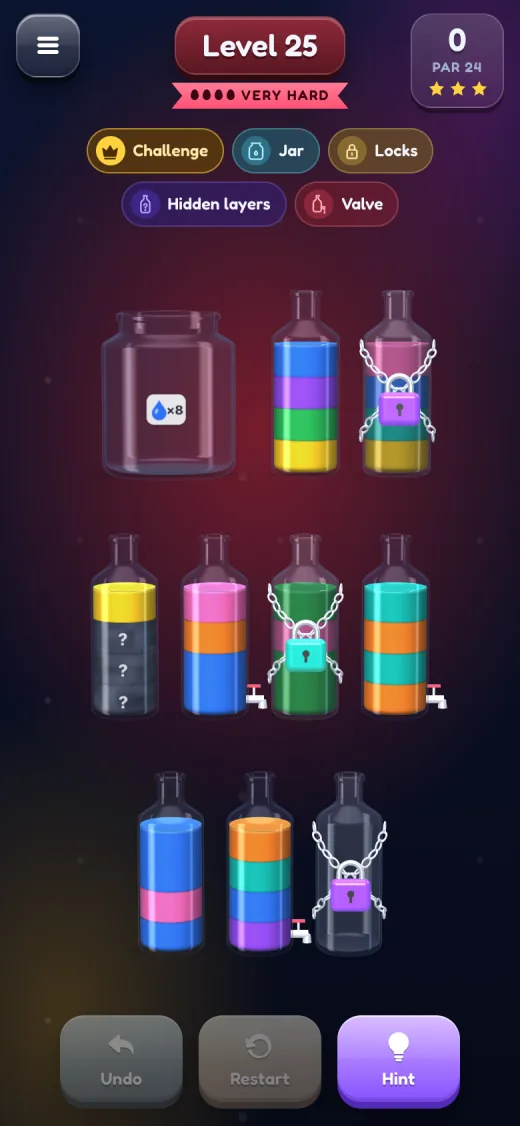
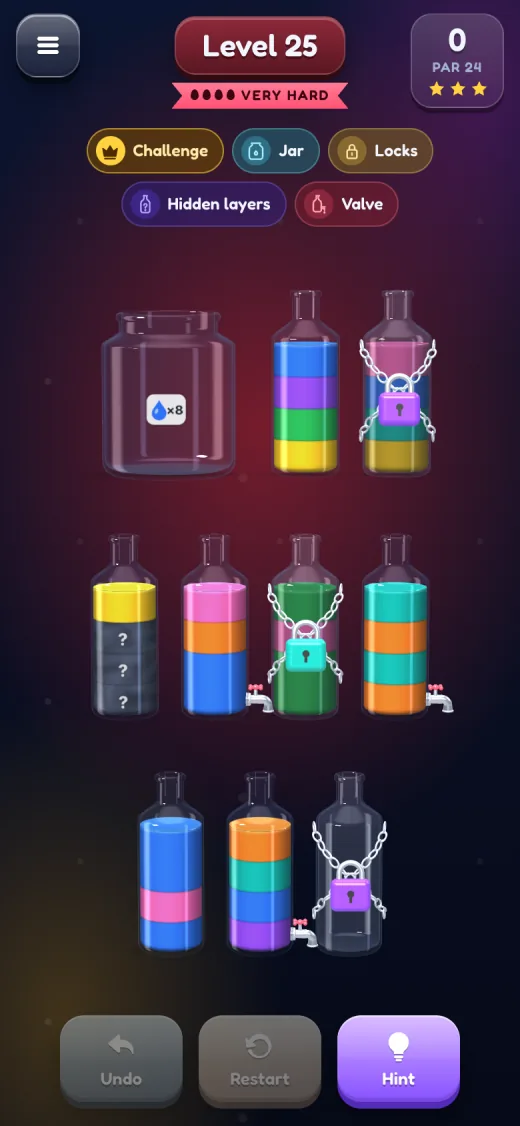
livelier glass, a new faucet and a die for free play
- reflections drift slowly as if the sun were moving, each bottle a little
  differently, with a small bright sun glint; now and then a soft band of
  light sweeps up one bottle (high graphics only: the loop idles at ~30 fps,
  low graphics still renders only when something moves)
- the valve tap is a chrome faucet with a flange, a curved spout and a red
  four-arm knob that turns while it pours
- free play gets a die icon instead of the mix glyph
- README screenshots refreshed

diff --git a/lab/src/render/vessel.ts b/lab/src/render/vessel.ts
@@ -16,6 +16,7 @@ export interface ViewLayer {
 }
 
 export const LIFT = 0.42;
+const TAP_SCALE = 1.25;
 
 const _n = new THREE.Vector3();
 const _axis = new THREE.Vector3();
@@ -24,7 +25,8 @@ const _acc = new THREE.Vector3();
 
 let corkGeo: THREE.BufferGeometry | null = null;
 let corkMat: THREE.Material | null = null;
-let tapMat: THREE.Material | null = null;
+let chromeMat: THREE.Material | null = null;
+let knobMat: THREE.Material | null = null;
 let steelMat: THREE.MeshStandardMaterial | null = null;
 let linkGeo: THREE.BufferGeometry | null = null;
 let padBodyGeo: THREE.BufferGeometry | null = null;
@@ -117,6 +119,11 @@ export class VesselView {
   private corkV = 0;
   tap: THREE.Group | null = null;
   tapOpen = 0;
+  /** this bottle's own offset and wobble of the drifting reflections, so no two look alike */
+  private readonly sunBias = (Math.random() - 0.5) * 0.5;
+  private readonly sunPhase = Math.random() * Math.PI * 2;
+  /** progress of a light sweep over the glass, idle below 0 */
+  private glintT = -1;
   private coaster: THREE.Mesh | null = null;
   private lastKey = "";
 
@@ -135,6 +142,7 @@ export class VesselView {
     this.liquid = new THREE.Mesh(geos.liquid, this.liquidMat);
     this.liquidFringe = new THREE.Mesh(geos.liquid, this.liquidFringeMat);
     this.glass = new THREE.Mesh(geos.glass, this.glassMat);
+    this.glassMat.uniforms.uGlintH!.value = this.shape.yTop;
     this.liquid.renderOrder = 1;
     this.liquidFringe.renderOrder = 2;
     this.glass.renderOrder = 3;
@@ -156,31 +164,77 @@ export class VesselView {
     return this.shape.yTop;
   }
 
+  /**
+   * A chrome faucet: a flange on the glass, a short pipe curving down into a
+   * flared nozzle, and a red four-arm knob on top that turns while it pours.
+   */
   private buildTap() {
-    tapMat ??= new THREE.MeshStandardMaterial({ color: 0xd7dce6, metalness: 0.55, roughness: 0.28 });
+    chromeMat ??= new THREE.MeshStandardMaterial({ color: 0xd6deea, metalness: 1, roughness: 0.12 });
+    knobMat ??= new THREE.MeshPhysicalMaterial({ color: 0xff3d57, roughness: 0.32, clearcoat: 1, clearcoatRoughness: 0.08 });
     const g = new THREE.Group();
-    const spout = new THREE.Mesh(new THREE.CylinderGeometry(0.06, 0.06, 0.3, 14), tapMat);
-    spout.rotation.z = Math.PI / 2;
-    spout.position.set(0.12, 0, 0);
-    const mouth = new THREE.Mesh(new THREE.CylinderGeometry(0.055, 0.07, 0.12, 14), tapMat);
-    mouth.position.set(0.25, -0.07, 0);
+    const along = (m: THREE.Mesh, x: number) => {
+      m.rotation.z = Math.PI / 2;
+      m.position.x = x;
+      return m;
+    };
+    const flange = along(new THREE.Mesh(new THREE.CylinderGeometry(0.08, 0.08, 0.04, 24), chromeMat), 0);
+    const collar = new THREE.Mesh(new THREE.TorusGeometry(0.062, 0.016, 10, 24), chromeMat);
+    collar.rotation.y = Math.PI / 2;
+    collar.position.x = 0.03;
+    const pipe = along(new THREE.Mesh(new THREE.CylinderGeometry(0.05, 0.055, 0.15, 20), chromeMat), 0.105);
+    // quarter torus from the pipe end (0.18, 0) down to the nozzle (0.25, -0.07)
+    const elbow = new THREE.Mesh(new THREE.TorusGeometry(0.07, 0.05, 12, 16, Math.PI / 2), chromeMat);
+    elbow.position.set(0.18, -0.07, 0);
+    const nozzle = new THREE.Mesh(new THREE.CylinderGeometry(0.05, 0.06, 0.07, 20), chromeMat);
+    nozzle.position.set(0.25, -0.105, 0);
+    const rim = new THREE.Mesh(new THREE.TorusGeometry(0.058, 0.012, 8, 24), chromeMat);
+    rim.rotation.x = Math.PI / 2;
+    rim.position.set(0.25, -0.14, 0);
+
     const handle = new THREE.Group();
-    const stem = new THREE.Mesh(new THREE.CylinderGeometry(0.02, 0.02, 0.14, 8), tapMat);
-    stem.position.y = 0.07;
-    const bar = new THREE.Mesh(new THREE.BoxGeometry(0.2, 0.04, 0.05), new THREE.MeshStandardMaterial({ color: 0xe8384f, roughness: 0.4 }));
-    bar.position.y = 0.15;
-    handle.add(stem, bar);
-    handle.position.set(0.12, 0.05, 0);
+    const stem = new THREE.Mesh(new THREE.CylinderGeometry(0.02, 0.024, 0.08, 12), chromeMat);
+    stem.position.y = 0.04;
+    const hub = new THREE.Mesh(new THREE.SphereGeometry(0.036, 16, 12), knobMat);
+    hub.position.y = 0.1;
+    handle.add(stem, hub);
+    for (let k = 0; k < 4; k++) {
+      const a = (k * Math.PI) / 2 + Math.PI / 4;
+      const arm = new THREE.Mesh(new THREE.CylinderGeometry(0.015, 0.015, 0.075, 8), knobMat);
+      arm.rotation.set(0, -a, Math.PI / 2);
+      arm.position.set(Math.cos(a) * 0.045, 0.1, Math.sin(a) * 0.045);
+      const ball = new THREE.Mesh(new THREE.SphereGeometry(0.026, 14, 10), knobMat);
+      ball.position.set(Math.cos(a) * 0.088, 0.1, Math.sin(a) * 0.088);
+      handle.add(arm, ball);
+    }
+    handle.position.set(0.1, 0.045, 0);
     handle.name = "handle";
-    g.add(spout, mouth, handle);
-    g.position.set(this.shape.radius - 0.04, 0.24, 0);
+    g.add(flange, collar, pipe, elbow, nozzle, rim, handle);
+    g.position.set(this.shape.radius - 0.02, 0.24, 0);
+    g.scale.setScalar(TAP_SCALE);
     this.tap = g;
     this.group.add(g);
   }
 
+  /** Valve outlet in the vessel's own frame: the bottom of the tap's nozzle. */
+  tapOutletLocal(out: THREE.Vector3) {
+    return out.set(0.25, -0.15, 0).multiplyScalar(TAP_SCALE).add(this.tap!.position);
+  }
+
   /** World position of the valve outlet (for streams). */
   tapOutlet(out: THREE.Vector3) {
-    return out.set(this.shape.radius + 0.21, 0.1, 0).applyMatrix4(this.group.matrixWorld);
+    return this.tapOutletLocal(out).applyMatrix4(this.group.matrixWorld);
+  }
+
+  /** Point the reflections at the drifting "sun", with this bottle's own offset. */
+  setSun(sun: number, time: number) {
+    const s = sun + this.sunBias + 0.1 * Math.sin(time * 0.45 + this.sunPhase);
+    this.glassMat.uniforms.uSun!.value = s;
+    this.liquidMat.uniforms.uSun!.value = s;
+  }
+
+  /** Start a soft band of light sweeping up the glass. */
+  glint() {
+    if (this.glintT < 0) this.glintT = 0;
   }
 
   setOrderLook(color: Color) {
@@ -464,6 +518,11 @@ export class VesselView {
   }
 
   update(dt: number, time: number) {
+    if (this.glintT >= 0) {
+      this.glintT += dt / 0.9;
+      if (this.glintT >= 1) this.glintT = -1;
+    }
+    this.glassMat.uniforms.uGlint!.value = this.glintT;
     if (!this.animated) {
       [this.lift, this.liftV] = spring(this.lift, this.liftV, this.liftTarget, 320, 20, dt);
       [this.shakeX, this.shakeV] = spring(this.shakeX, this.shakeV, 0, 900, 14, dt);

diff --git a/lab/src/render/materials.ts b/lab/src/render/materials.ts
@@ -3,9 +3,17 @@ import * as THREE from "three";
 export const MAX_LAYERS = 8;
 export const PROFILE_SAMPLES = 24;
 
-/** Procedural studio environment: dark gradient + two softboxes + a top light. */
+/**
+ * Procedural studio environment: dark gradient, two softboxes, a top light and
+ * a small bright sun. uSun turns it all around the vertical axis (radians), so
+ * reflections, and the sun's glint most of all, drift slowly over the glass.
+ */
 const ENV = /* glsl */ `
+uniform float uSun;
 vec3 envColor(vec3 r) {
+  float cs = cos(uSun);
+  float sn = sin(uSun);
+  r = vec3(cs * r.x + sn * r.z, r.y, cs * r.z - sn * r.x);
   float y = r.y;
   vec3 col = mix(vec3(0.03, 0.04, 0.08), vec3(0.20, 0.25, 0.36), smoothstep(-0.4, 0.9, y));
   float az = atan(r.x, r.z);
@@ -16,6 +24,8 @@ vec3 envColor(vec3 r) {
   col += vec3(1.0, 0.97, 0.92) * k1 * 2.4;
   col += vec3(0.65, 0.82, 1.0) * k2 * 1.8;
   col += vec3(0.95, 0.97, 1.0) * k3 * 1.4;
+  float sun = smoothstep(0.972, 0.994, dot(normalize(r), vec3(-0.52, 0.42, 0.74)));
+  col += vec3(1.0, 0.96, 0.88) * sun * 14.0;
   return col;
 }
 `;
@@ -30,12 +40,17 @@ float vnoise(vec2 p) {
 }
 `;
 
+/** shared by every material that reads the environment but has no per-vessel drift (streams) */
+export const SUN = { value: 0 };
+
 const BASIC_VERT = /* glsl */ `
 varying vec3 vWorld;
 varying vec3 vNormalW;
 varying vec2 vUv;
+varying vec3 vLocal;
 void main() {
   vec4 wp = modelMatrix * vec4(position, 1.0);
+  vLocal = position;
   vWorld = wp.xyz;
   vNormalW = normalize(mat3(modelMatrix) * normal);
   vUv = uv;
@@ -158,8 +173,11 @@ uniform vec3 uGlowColor;
 uniform float uAlpha;
 uniform vec3 uTint;
 uniform float uTintAmt;
+uniform float uGlint;
+uniform float uGlintH;
 varying vec3 vWorld;
 varying vec3 vNormalW;
+varying vec3 vLocal;
 ${ENV}
 void main() {
   vec3 N = normalize(vNormalW);
@@ -172,6 +190,13 @@ void main() {
   float rim = smoothstep(0.38, 0.0, ndv);
   col += vec3(0.55, 0.66, 0.82) * rim * 0.22 + uTint * uTintAmt;
   a += rim * 0.16 + uTintAmt * 0.6;
+  // now and then a soft band of light sweeps up the glass (uGlint: 0..1, idle below 0)
+  if (uGlint >= 0.0) {
+    float d = vLocal.y / uGlintH + vLocal.x * 0.9;
+    float band = smoothstep(0.16, 0.0, abs(d - mix(-0.4, 1.5, uGlint))) * sin(3.14159 * uGlint) * (0.35 + 0.65 * ndv);
+    col += vec3(1.0, 0.98, 0.94) * band * 0.5;
+    a += band * 0.28;
+  }
   col += uGlowColor * uGlow * (0.18 + 0.9 * rim);
   a += uGlow * 0.12 * rim;
   a = clamp(a, 0.0, 1.0) * uAlpha;
@@ -248,6 +273,7 @@ export function makeLiquidMaterials(profile: Float32Array, y0: number, y1: numbe
       uInvModel: { value: new THREE.Matrix4() },
       uAgit: { value: 0 },
       uDim: { value: 1 },
+      uSun: { value: 0 },
     },
   });
   const fringe = new THREE.ShaderMaterial({
@@ -276,6 +302,9 @@ export function makeGlassMaterial() {
       uAlpha: { value: 1 },
       uTint: { value: new THREE.Vector3(0.6, 0.75, 1.0) },
       uTintAmt: { value: 0.04 },
+      uSun: { value: 0 },
+      uGlint: { value: -1 },
+      uGlintH: { value: 1 },
     },
   });
 }
@@ -284,7 +313,7 @@ export function makeStreamMaterial() {
   return new THREE.ShaderMaterial({
     vertexShader: BASIC_VERT,
     fragmentShader: STREAM_FRAG,
-    uniforms: { uColor: { value: new THREE.Vector3(1, 1, 1) }, uTime: { value: 0 } },
+    uniforms: { uColor: { value: new THREE.Vector3(1, 1, 1) }, uTime: { value: 0 }, uSun: SUN },
   });
 }
 

diff --git a/lab/src/render/stage.ts b/lab/src/render/stage.ts
@@ -3,7 +3,7 @@ import { RoomEnvironment } from "three/examples/jsm/environments/RoomEnvironment
 import type { LevelDef, State } from "../engine/types";
 import { PALETTE } from "../palette";
 import { Particles, Stream } from "./fx";
-import { hexToVec3, makeShadowTexture } from "./materials";
+import { hexToVec3, makeShadowTexture, SUN } from "./materials";
 import { levelFor, spillAngle } from "./shapes";
 import { LIFT, VesselView } from "./vessel";
 
@@ -69,7 +69,16 @@ export class Stage {
   /** the stage owns its element; the app mounts it wherever the game screen is */
   readonly container: HTMLElement;
 
+  /**
+   * In high quality the reflections drift and glint all the time, so the loop keeps
+   * running at ~30 fps when nothing else moves; in low quality it sleeps as before.
+   */
+  private readonly ambient: boolean;
+  private nextGlint = 3;
+  private disposed = false;
+
   constructor(readonly quality: Quality) {
+    this.ambient = quality === "high";
     this.container = document.createElement("div");
     this.container.className = "stage-root";
     this.container.style.cssText = "position:absolute;inset:0;";
@@ -325,6 +334,10 @@ export class Stage {
   }
 
   private frame = (now: number) => {
+    if (this.disposed) {
+      this.running = false;
+      return;
+    }
     const dt = Math.min(0.05, Math.max(0, (now - this.last) / 1000));
     this.last = now;
     this.time += dt;
@@ -348,11 +361,23 @@ export class Stage {
       active ||= c.active;
     }
     for (const s of this.streams) (s.mat.uniforms.uTime!.value as number) = this.time;
+    // the "sun" wanders slowly, so the highlights on the glass are never quite still
+    const sun = 0.55 * Math.sin(this.time * 0.12) + 0.22 * Math.sin(this.time * 0.29 + 1.3);
+    SUN.value = sun;
+    for (const v of this.views) v.setSun(sun, this.time);
+    for (const c of this.cups) c?.setSun(sun, this.time);
+    if (this.ambient && this.time > this.nextGlint) {
+      const idle = this.views.filter((v) => !v.animated && !v.busy);
+      idle[Math.floor(Math.random() * idle.length)]?.glint();
+      this.nextGlint = this.time + 3.5 + Math.random() * 4.5;
+    }
     this.particles.update(dt);
     this.renderer.render(this.scene, this.camera);
     this.keepAlive -= dt;
     if (active || this.keepAlive > 0) {
       requestAnimationFrame(this.frame);
+    } else if (this.ambient && this.views.length > 0 && this.container.isConnected) {
+      setTimeout(() => requestAnimationFrame(this.frame), 30);
     } else {
       this.running = false;
     }
@@ -474,7 +499,7 @@ export class Stage {
     // local point that must sit at L: the lip (tilting bottles) or the tap outlet (valve)
     const shape = src.shape;
     const lipLocal = valve
-      ? new THREE.Vector3(shape.radius + 0.21, 0.1, 0)
+      ? src.tapOutletLocal(new THREE.Vector3())
       : new THREE.Vector3(dir * shape.rLipOuter * 0.92, shape.yTop - 0.005, 0);
     const poseFor = (phi: number, outPos: THREE.Vector3) => {
       const rot = valve ? 0 : -dir * phi;
@@ -686,6 +711,7 @@ export class Stage {
   }
 
   dispose() {
+    this.disposed = true;
     this.renderer.dispose();
     this.container.remove();
   }

diff --git a/lab/src/ui/icons.ts b/lab/src/ui/icons.ts
@@ -41,6 +41,10 @@ export const ICONS: Record<string, string> = {
   next: fill(`<path d="M5 11h10.2l-3.6-3.6a1.3 1.3 0 0 1 1.84-1.84l5.82 5.82a1.3 1.3 0 0 1 0 1.84l-5.82 5.82a1.3 1.3 0 0 1-1.84-1.84L15.2 13.6H5a1.3 1.3 0 0 1 0-2.6z"/>`),
   star: fill(`<path d="M12 2.8l2.8 5.8 6.3.9-4.6 4.4 1.1 6.3L12 17.2l-5.6 3 1.1-6.3L2.9 9.5l6.3-.9z"/>`),
   chevron: fill(`<path d="M5.3 8.8a1.3 1.3 0 0 1 1.84 0L12 13.66l4.86-4.86a1.3 1.3 0 1 1 1.84 1.84l-5.78 5.78a1.3 1.3 0 0 1-1.84 0L5.3 10.64a1.3 1.3 0 0 1 0-1.84z"/>`),
+  // a tilted die for free play
+  free: fill(
+    `<path fill-rule="evenodd" transform="rotate(-12 12 12)" d="M7 3.5h10A3.5 3.5 0 0 1 20.5 7v10a3.5 3.5 0 0 1-3.5 3.5H7A3.5 3.5 0 0 1 3.5 17V7A3.5 3.5 0 0 1 7 3.5zm1.4 3a1.6 1.6 0 1 0 0 3.2 1.6 1.6 0 0 0 0-3.2zm7.2 0a1.6 1.6 0 1 0 0 3.2 1.6 1.6 0 0 0 0-3.2zM12 10.4a1.6 1.6 0 1 0 0 3.2 1.6 1.6 0 0 0 0-3.2zm-3.6 3.9a1.6 1.6 0 1 0 0 3.2 1.6 1.6 0 0 0 0-3.2zm7.2 0a1.6 1.6 0 1 0 0 3.2 1.6 1.6 0 0 0 0-3.2z"/>`,
+  ),
   crown: fill(`<path d="M4.3 17.6 2.7 8.3a.7.7 0 0 1 1.13-.63l3.9 3.3 3.7-6a.7.7 0 0 1 1.2 0l3.7 6 3.9-3.3a.7.7 0 0 1 1.13.63l-1.6 9.3a1 1 0 0 1-1 .83H5.3a1 1 0 0 1-1-.83z"/><rect x="5" y="19.6" width="14" height="2" rx="1"/>`),
   drop: fill(`<path d="M12 2.6c3.4 4.3 6.2 7.6 6.2 11.3a6.2 6.2 0 0 1-12.4 0C5.8 10.2 8.6 6.9 12 2.6z"/>`),
 };

diff --git a/lab/src/ui/app.ts b/lab/src/ui/app.ts
@@ -157,7 +157,7 @@ export class App {
           <button type="button" class="gbtn big tier-play" data-go="play">${ICONS.play}<span>Play</span></button>
           <button type="button" class="gbtn glass" data-go="map">${ICONS.map}<span>Level map</span></button>
         </section>
-        <button type="button" class="gbtn blue wide" data-go="free"><span class="wide-icon">${ICONS.mix}</span><b>Free play</b></button>
+        <button type="button" class="gbtn blue wide" data-go="free"><span class="wide-icon">${ICONS.free}</span><b>Free play</b></button>
         <div class="settings">
           <div class="seg" role="group" aria-label="Graphics">
             <button type="button" data-q="high" aria-pressed="${this.quality === "high"}">Graphics: high</button>
